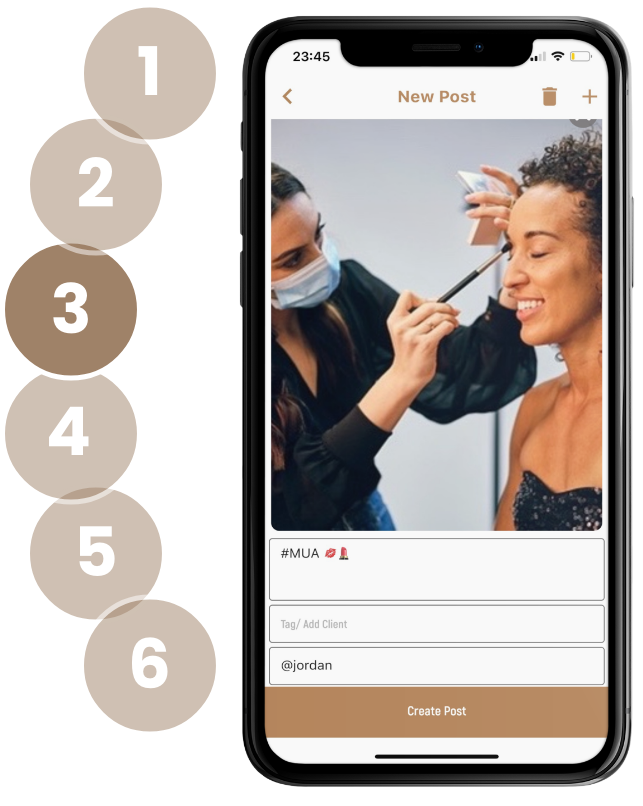
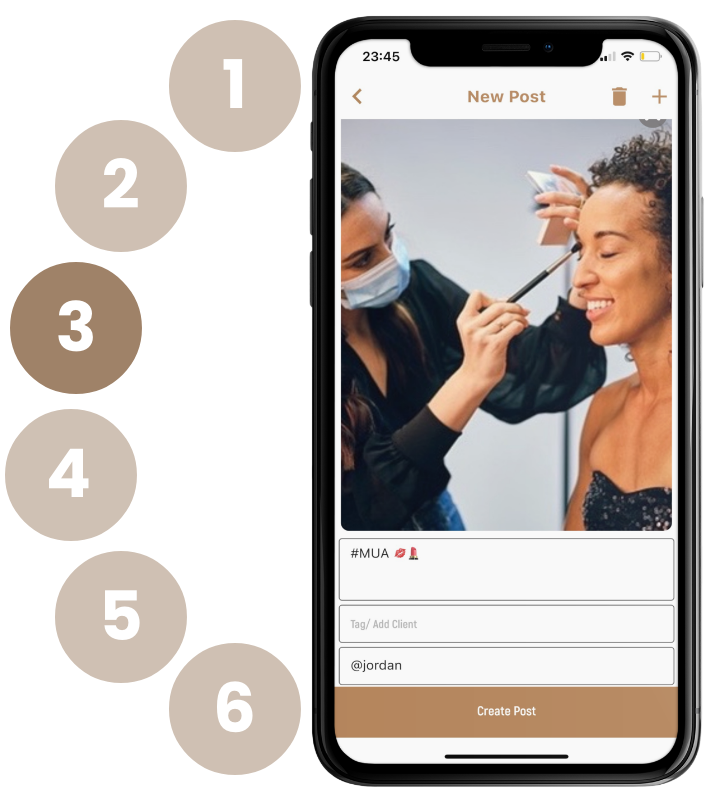
Changed how to images

diff --git a/css/styles.css b/css/styles.css
@@ -1243,7 +1243,7 @@ body
   }
 
   .howto-image {
-  width: 50rem;
+  width: 60rem;
 
   }
 
@@ -1256,7 +1256,7 @@ body
   }
 
   .howto-list-container {
-    height: 43.5rem;
+    height: 41rem;
     max-width: 100%;
     display: flex;
     flex-direction: column;
